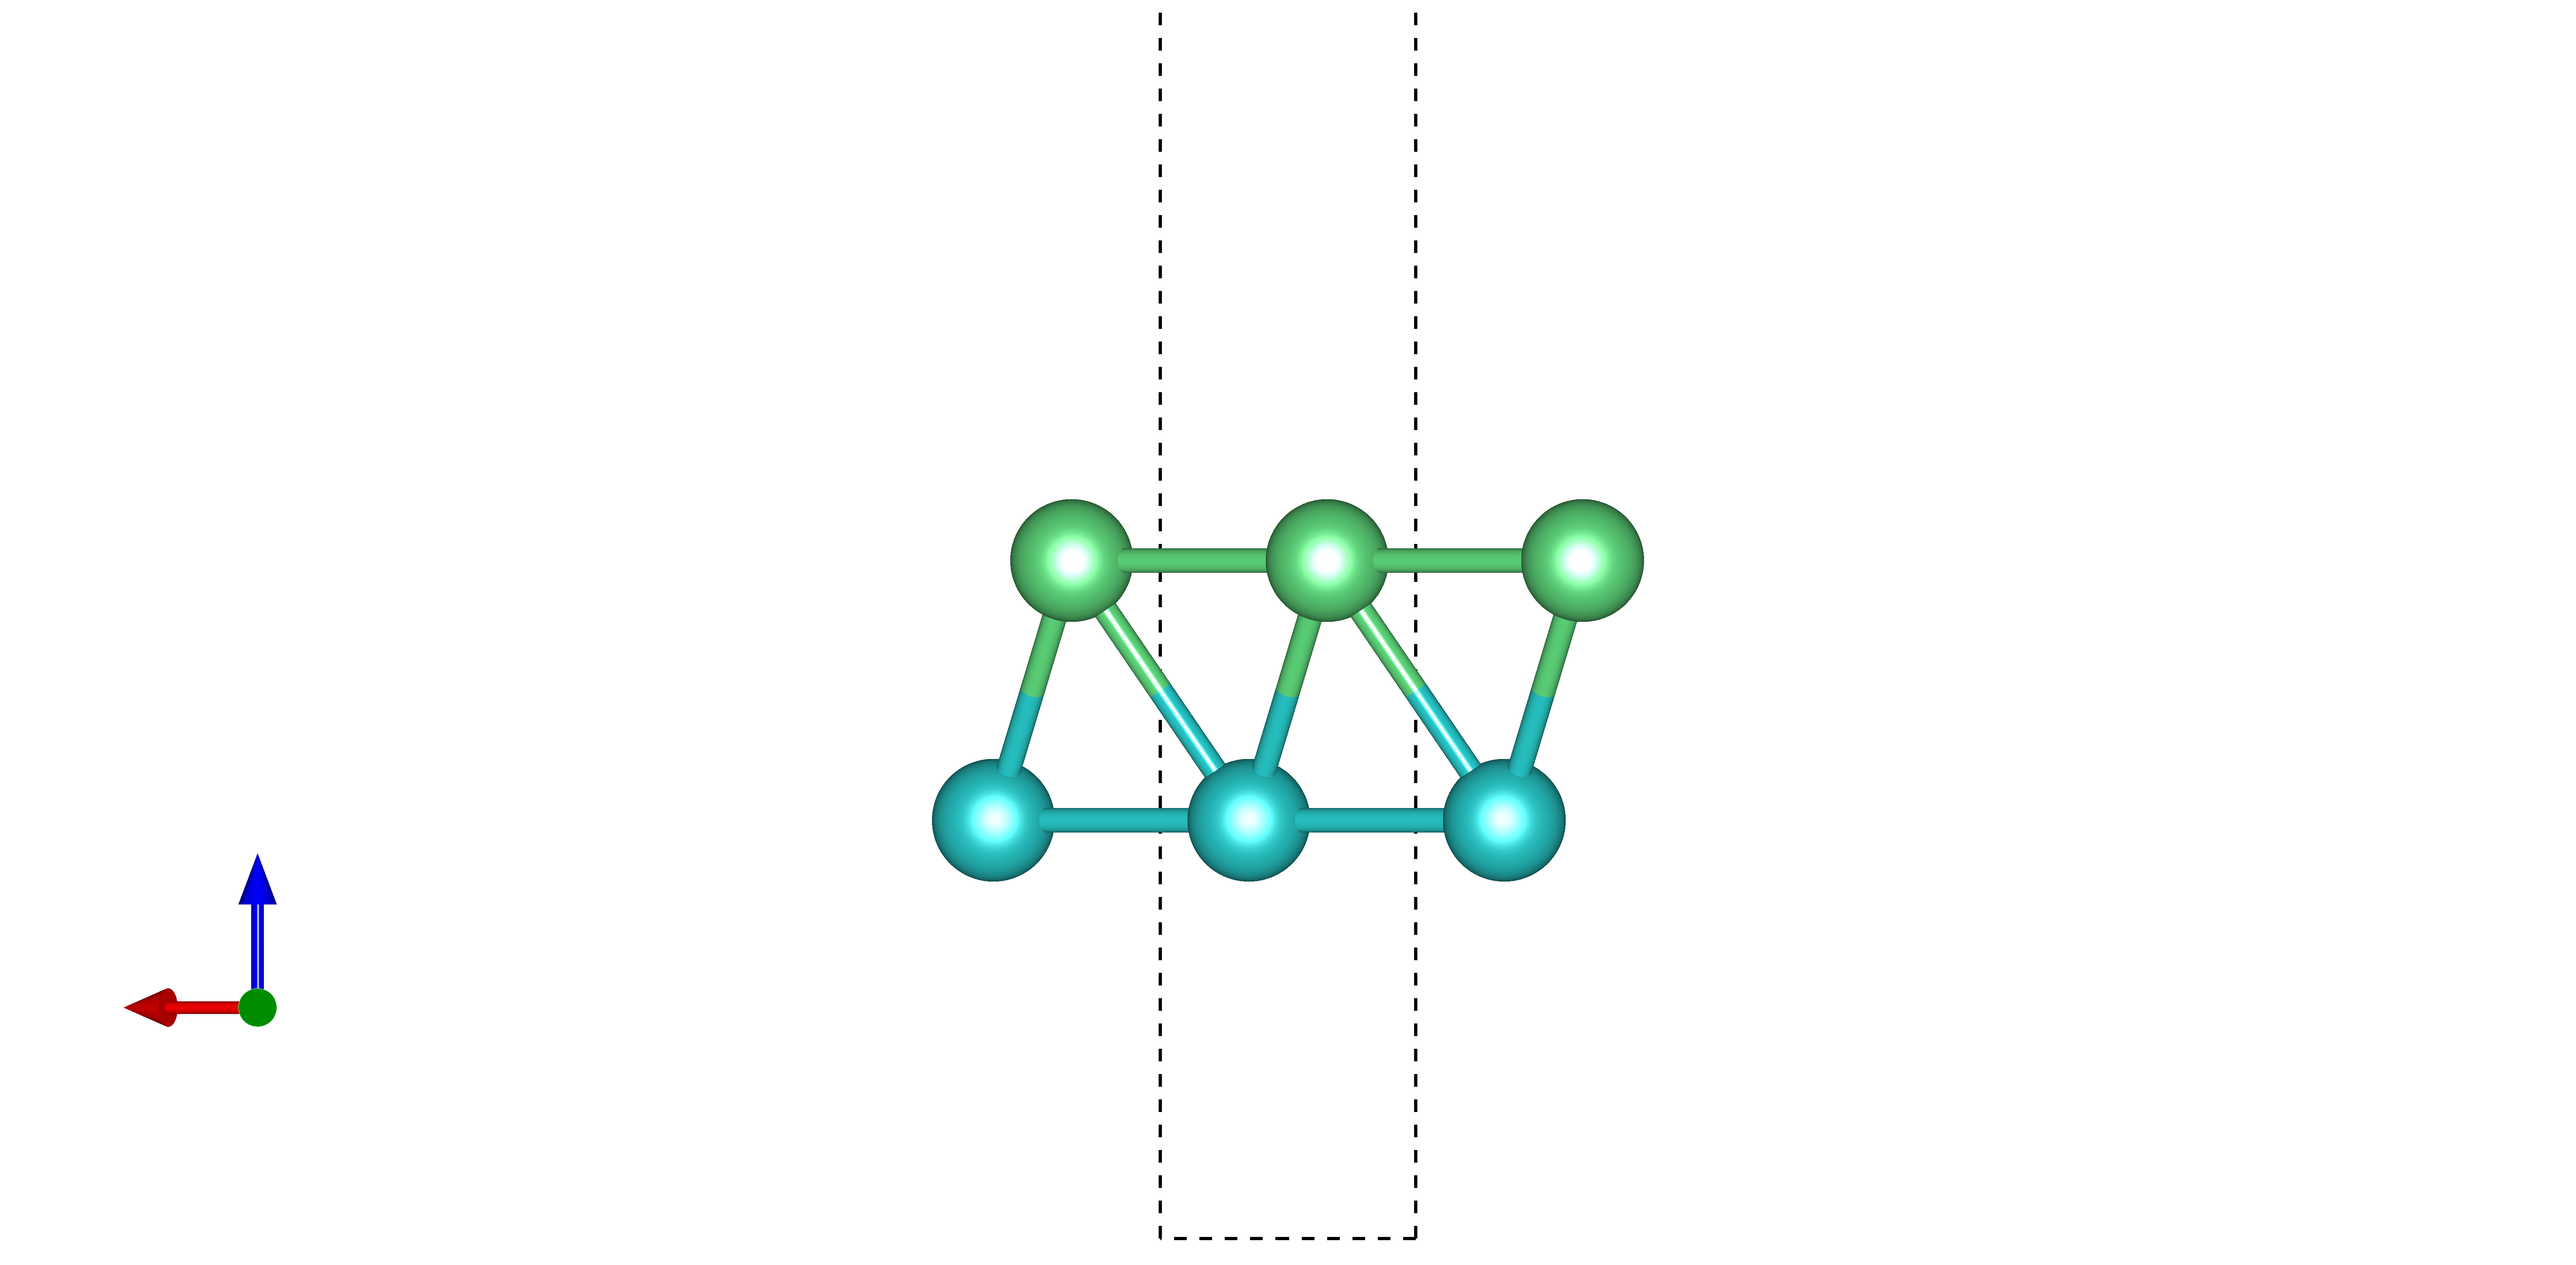
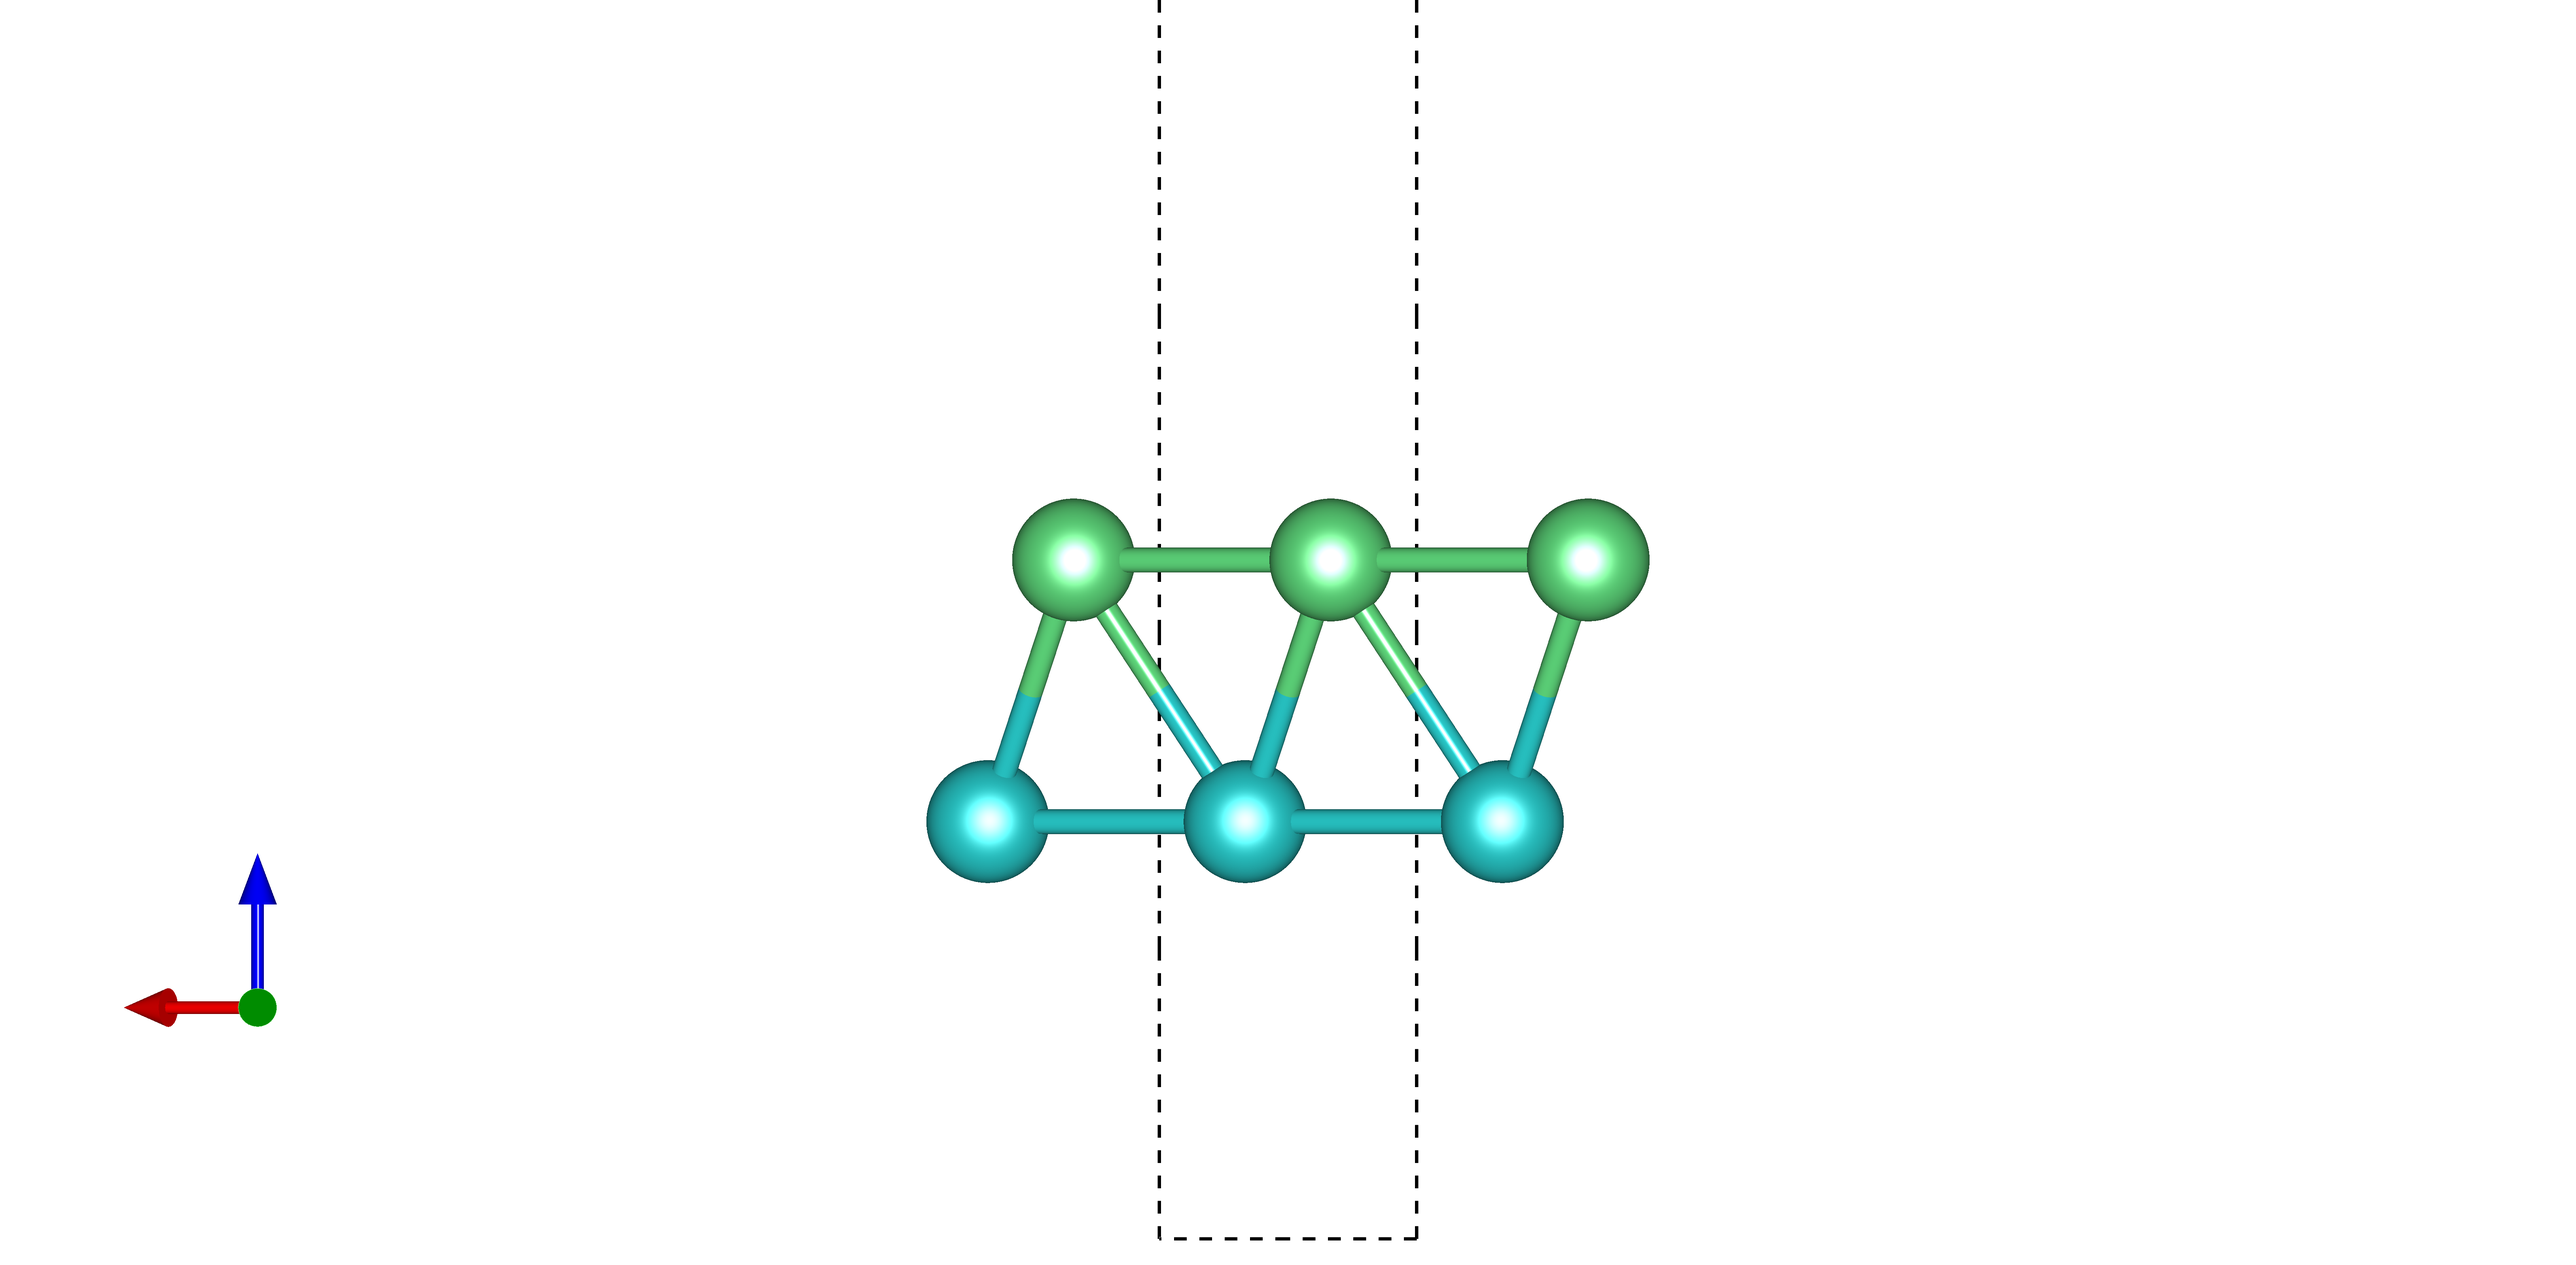
Re-render the structure-library beta renders in P-3m1
The six library renders and b-beryllene.vasp/.vesta of
figures/sources/structure_library still showed the superseded P-1 cell.
They are re-rendered with VESTA in the same views (fitted against the old
PNGs), and the view settings are recorded in report section 7.

diff --git a/9.0_topology/docs/topo_report_20261002.md b/9.0_topology/docs/topo_report_20261002.md
@@ -278,7 +278,7 @@ The figure folders `figures/<n>_<topic>/`, `figures_for_publication/`, `figures_
   - SOC bands: `9.0_topology/b-Beryllene_{b,bb}/bands` rerun on the same path with `tools/bands_path.pbs` (jobs 45826, 45827; the old validation reports were removed so that `check_topology_outputs.py` could write new ones: PASS, all four TRIM on the path). The path gaps (1H-β N = 4: 0.929 eV, N = 6: 0.837 eV; 2H-β N = 6: 0.177 eV) are not below the recorded zone minima, so the gap tables are unchanged. The 2H-β panel now shows the parities at all four TRIM.
 - **Fermi level of the PBE band plots.** A non-self-consistent line-mode run obtains E-fermi from the path k-points only. The band plots used that value, which is off by 0.05–0.08 eV (hcp, α, β, cubic trilayer), 0.40 eV (bcc), 0.58 eV (1H-β) and 0.77 eV (2H-β). `plot_bandstructure` now takes the self-consistent run as the last entry of each `bs_list` (`extract_reference_fermi`, `vmatplot/bandstructure.py`), and notebook 4.2 and 4.3 pass `2.4_self_consistent/<structure>` and `2.5_self_consistent_with_hydrogen/<structure>`. The 2H-α plot is aligned at the VBM and is unchanged. The DOS and PDoS runs are non-self-consistent too, but on 105 × 105 (bulk 105³) meshes over the whole zone, so their E-fermi is reliable; the topology plots use the self-consistent value.
 - **Topology band labels.** `extract_band_path` names the TRIM on the paths of distorted cells (neither hexagonal nor square) as in the parity tables (X = (½, 0), Y = (0, ½), M = (½, ½) or an equivalent point); with the new KPOINTS the labels already agree.
-- **β render.** `figures/sources/structure_overview/2b_b-beryllene.vesta` and its two PNGs now hold the P-3m1 cell; `structure_pristine` (both versions) is regenerated. The renders were made here with VESTA 3.5.8 (`VESTA-gtk3.tar.bz2`) under a user-space Xvfb unpacked from the Rocky 9 RPMs (`xorg-x11-server-Xvfb`, `libXfont2`, `libxkbfile`, `libXdmcp`, `libfontenc`, `xkbcomp`; the hard-coded `/usr/bin` of xkbcomp in the Xvfb binary patched to `./xkbin`). Same canvas as before (VESTA.ini window 1345 × 893 gives a 1031 × 618 canvas; `VESTA -open <file> -export_img scale=4 <png> -close`) and same views: side view as stored in the file with translation 1.785 and scale 4.300, top view along **c** with **a** horizontal and scale 5.160. Rendering the old P-1 file this way reproduces the old PNGs to a mean pixel difference of 1–2 (out of 765), so only the structure changed. `structure_library/` still holds the P-1 β renders; no figure uses them.
+- **β render.** `figures/sources/structure_overview/2b_b-beryllene.vesta` and its two PNGs now hold the P-3m1 cell; `structure_pristine` (both versions) is regenerated. The renders were made here with VESTA 3.5.8 (`VESTA-gtk3.tar.bz2`) under a user-space Xvfb unpacked from the Rocky 9 RPMs (`xorg-x11-server-Xvfb`, `libXfont2`, `libxkbfile`, `libXdmcp`, `libfontenc`, `xkbcomp`; the hard-coded `/usr/bin` of xkbcomp in the Xvfb binary patched to `./xkbin`). Same canvas as before (VESTA.ini window 1345 × 893 gives a 1031 × 618 canvas; `VESTA -open <file> -export_img scale=4 <png> -close`) and same views: side view as stored in the file with translation 1.785 and scale 4.300, top view along **c** with **a** horizontal and scale 5.160. Rendering the old P-1 file this way reproduces the old PNGs to a mean pixel difference of 1–2 (out of 765), so only the structure changed. `structure_library/b-beryllene.{vasp,vesta}` and its six PNGs were re-rendered in P-3m1 the same way on 2026-10-09 (canvas 1628 × 800, VESTA.ini window 1942 × 1075, export scale 4): top view scale 5.062 with bounds −1…2; side views along **a**₁ and **a**₂ scale 5.062, translation 1.658; `_big` views bounds −2…3, scale 3.842, side translation 1.106. The old P-1 file reproduces the old library PNGs with these settings (mean pixel difference 0.4–1.3).
 - **Article text** (`../H-Beryllene_article_2026`): α in-plane lattice constant 6.1% (not 6.0%) below hcp; the cubic trilayer, built from three bcc (001) layers, has an in-plane lattice constant 12.7% below the cubic lattice constant of bcc and 0.8% above its nearest-neighbour distance, and an interlayer distance 20.2% above the bcc (001) spacing (the old "reduced by 17%" is not reproduced by any reference). `optics_update.md` and its manifest now list the current file names.
 
 ## Files
